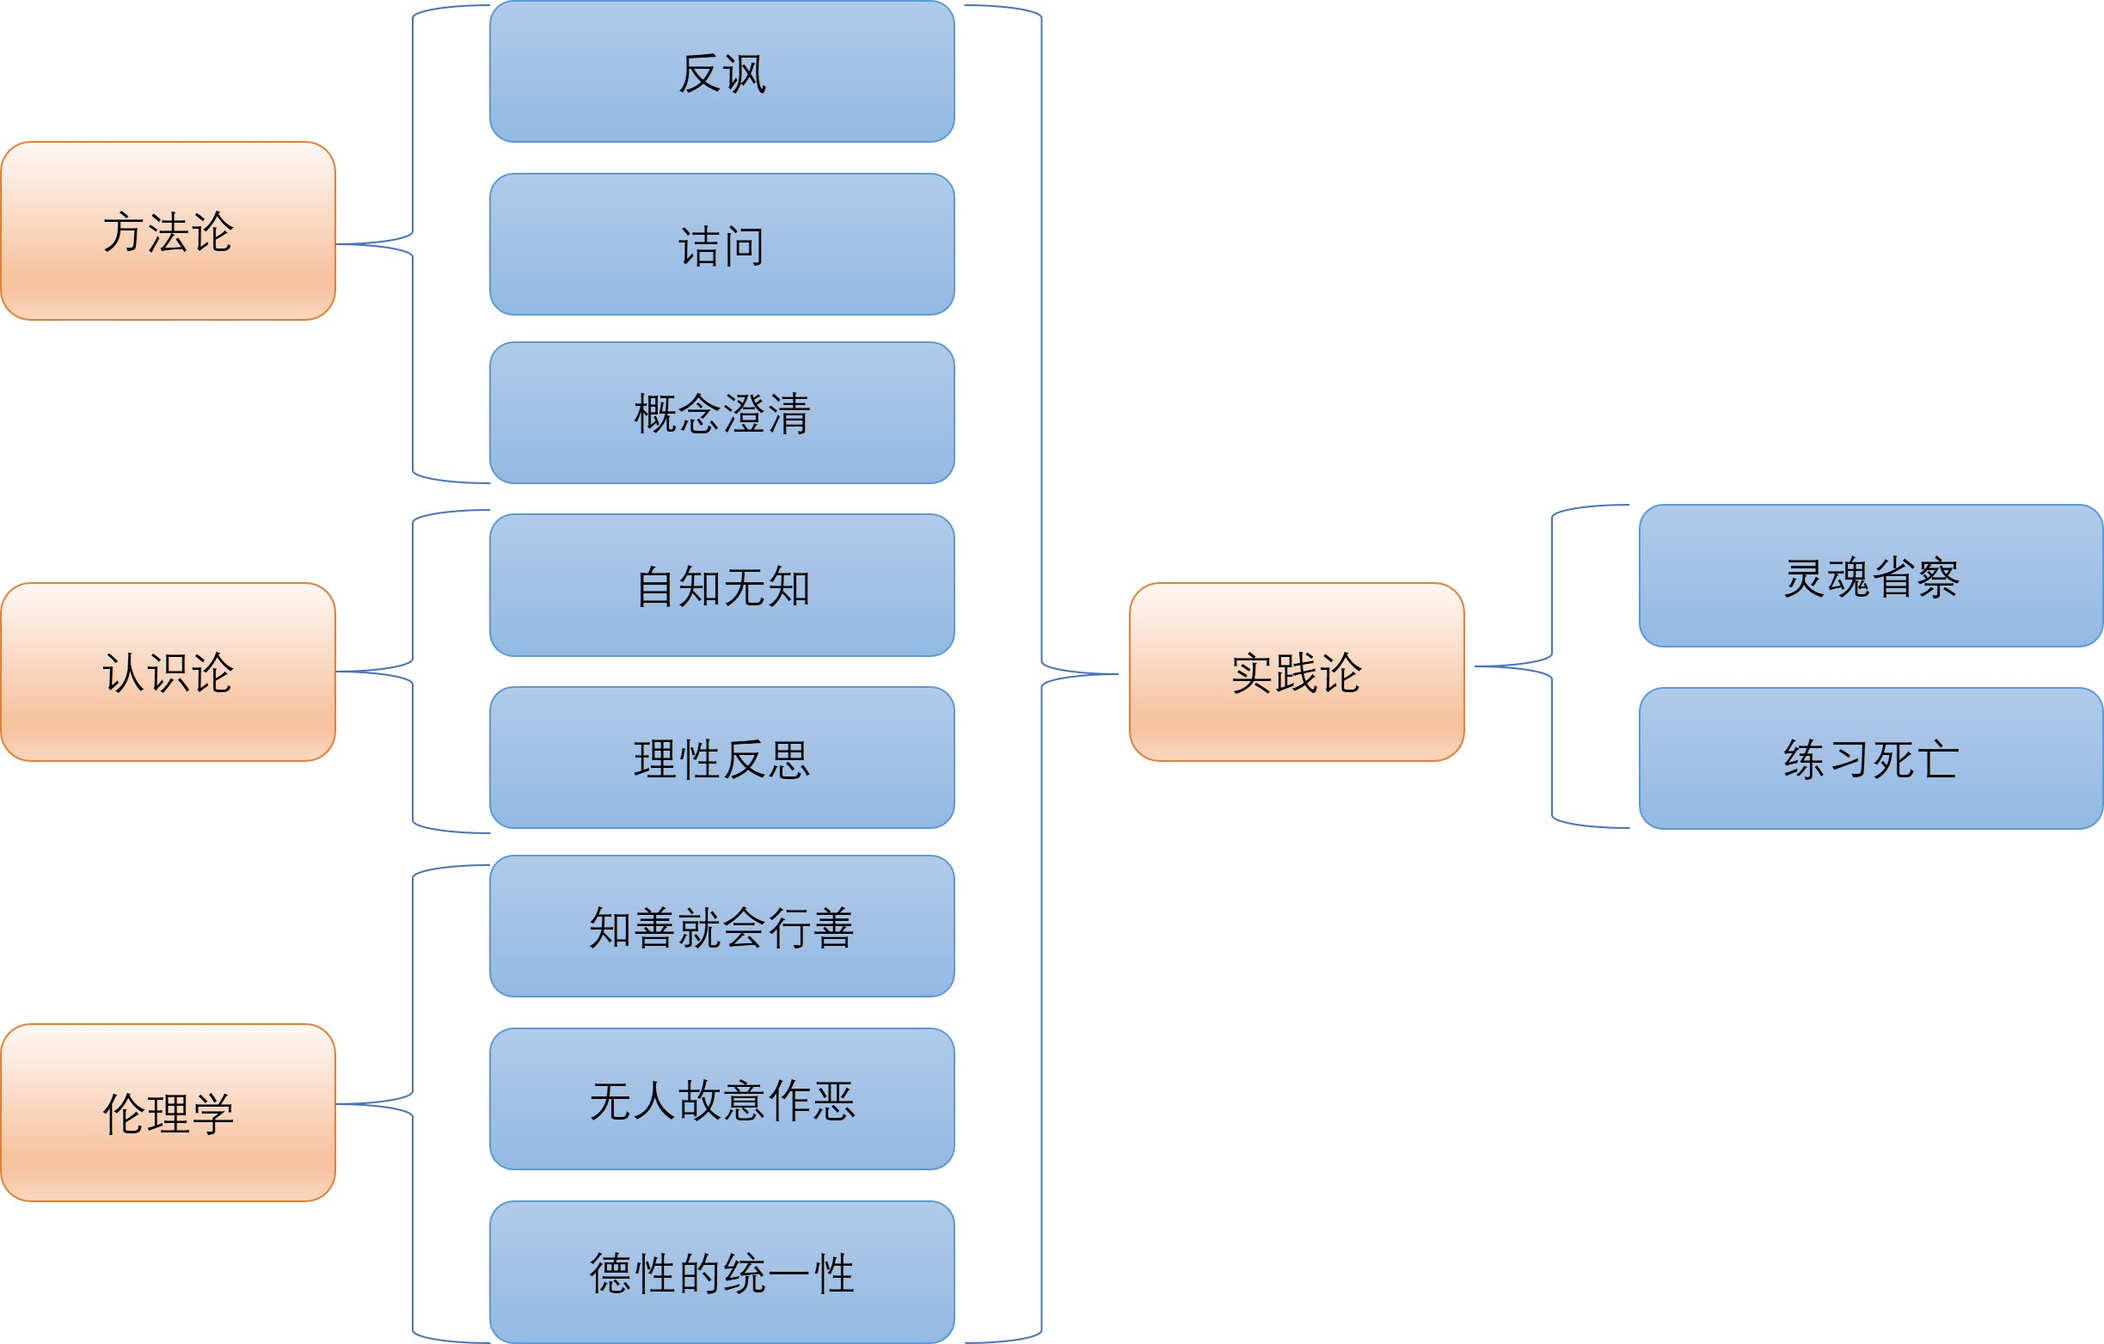
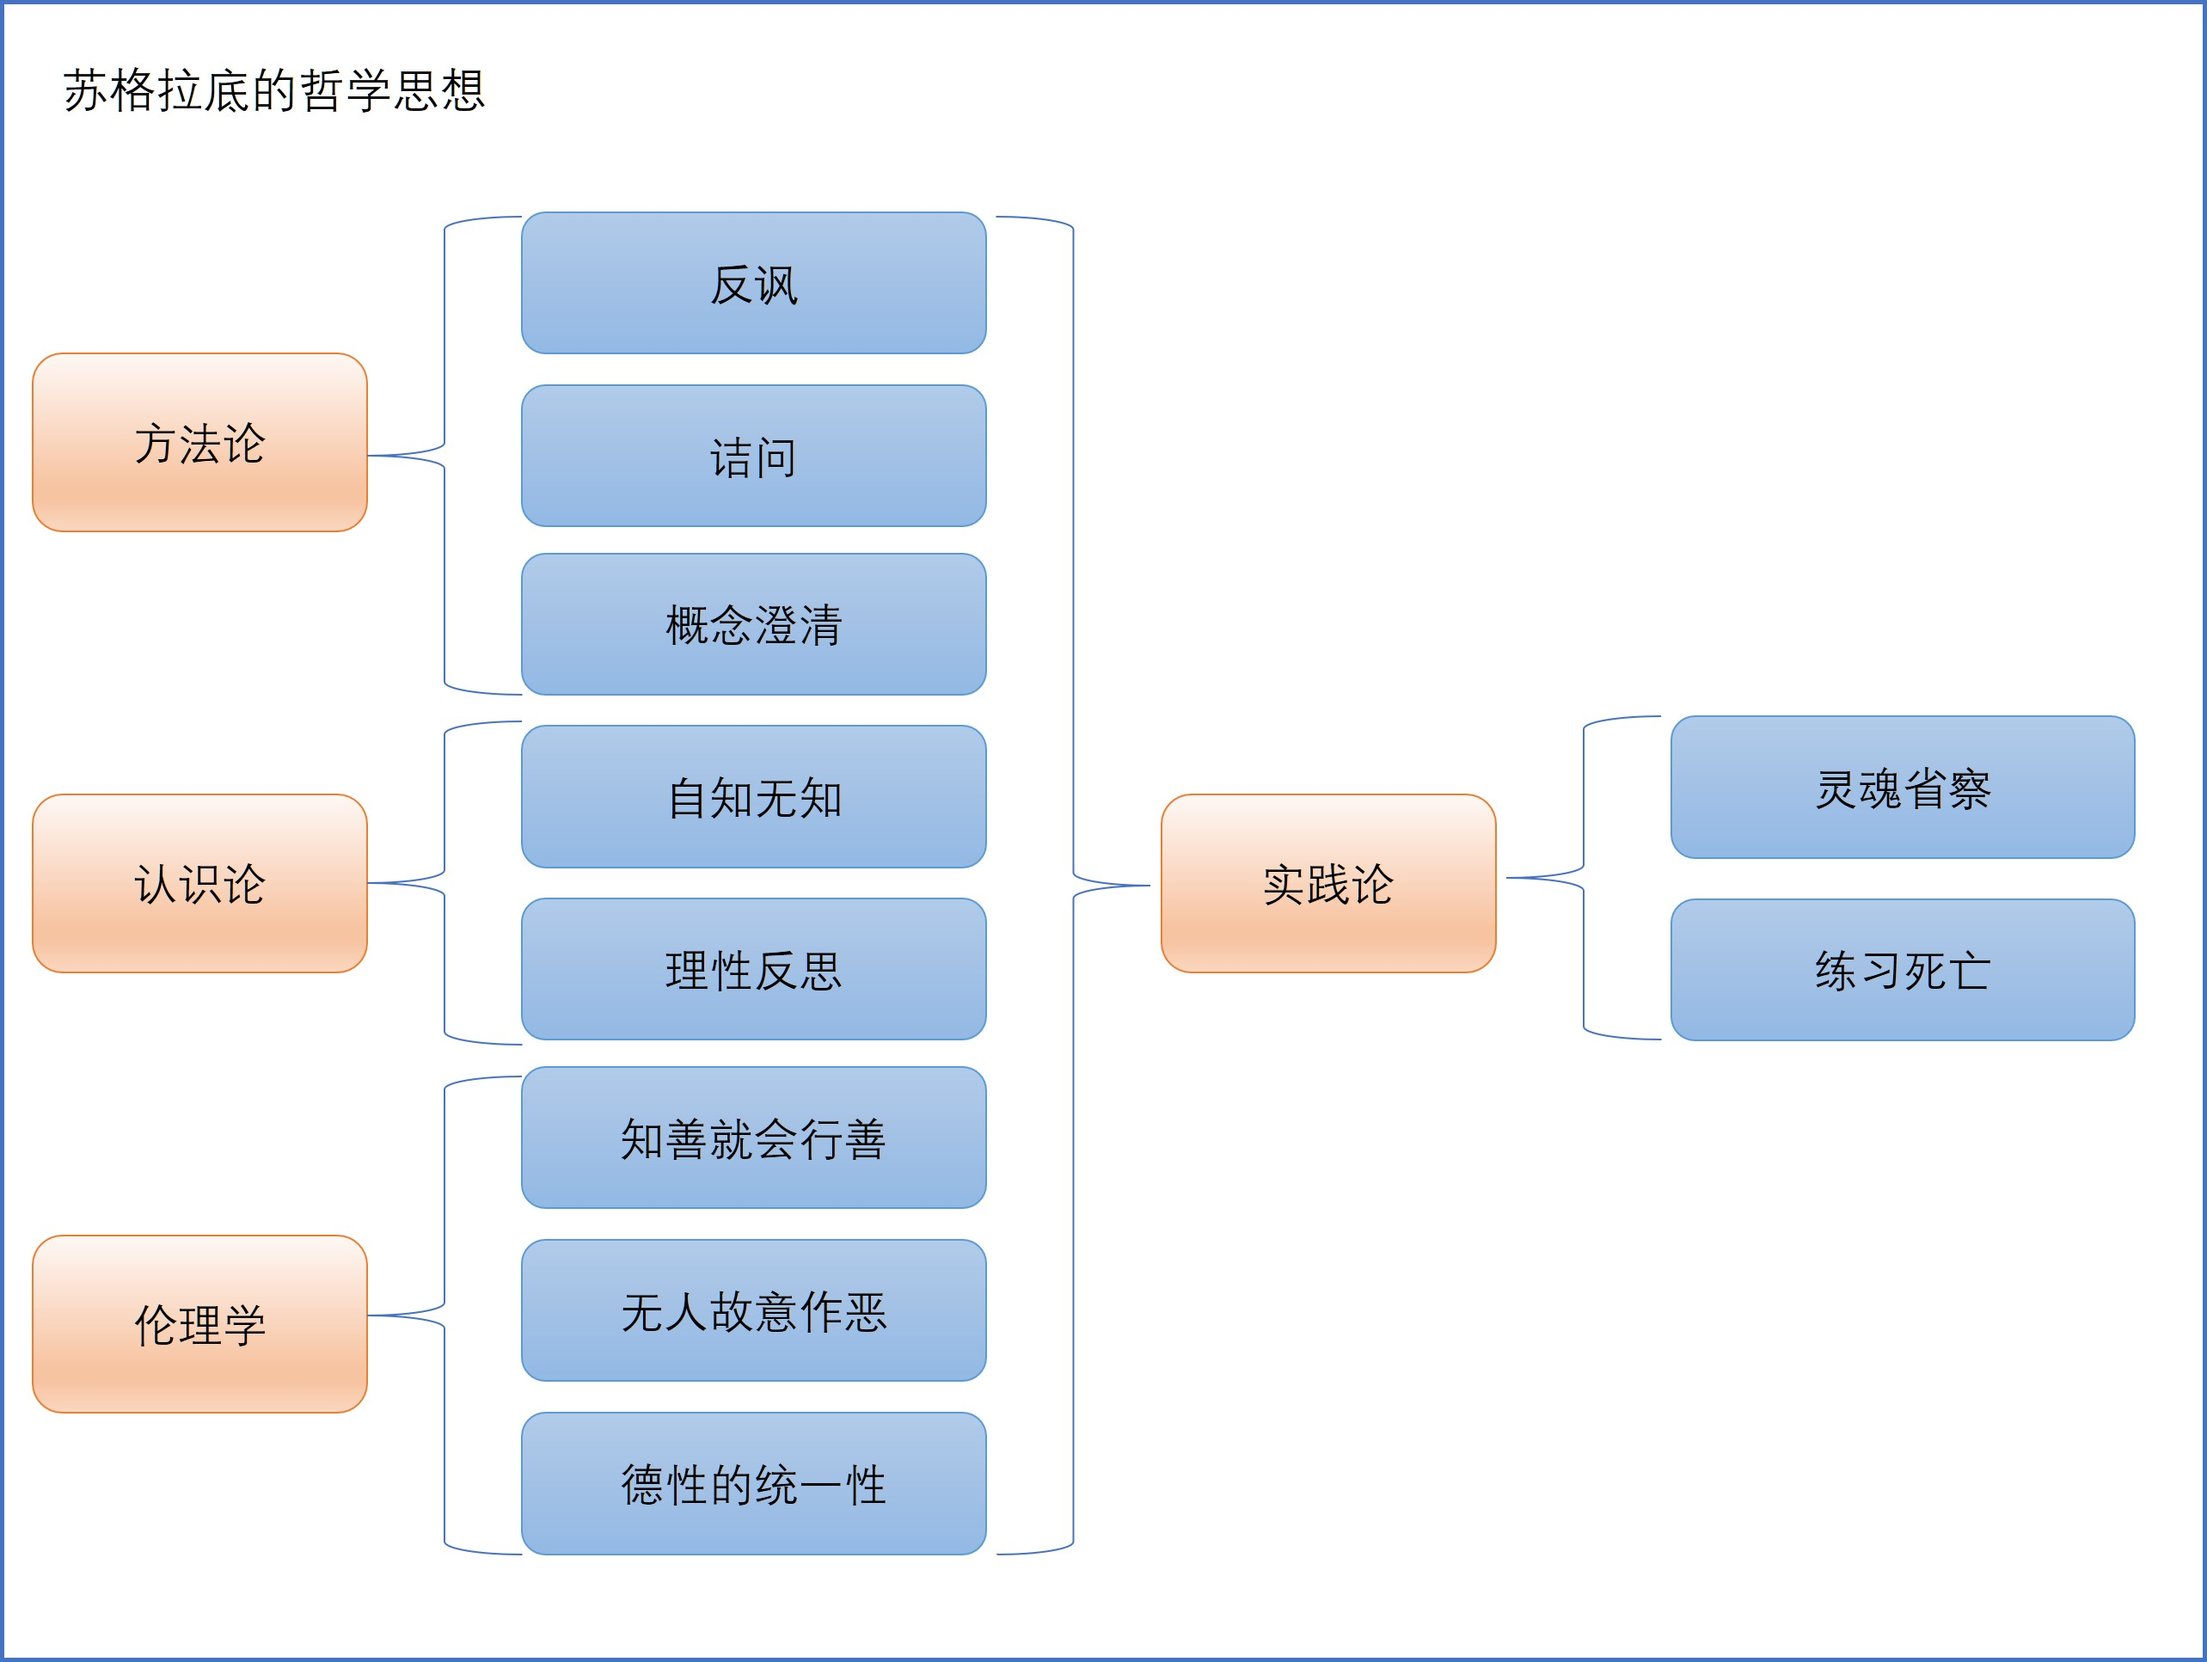
1

Changed region(s): [[0.0, 0.0, 1.0, 1.0], [0.0, 0.0921, 0.1864, 0.3378]]

diff --git a/docs/about/index.html b/docs/about/index.html
@@ -299,7 +299,7 @@ Text Analysis
 <h4 data-anchor-id="blog">Blog</h4>
 <div id="listing-blog" class="quarto-listing quarto-listing-container-grid">
 <div class="list grid quarto-listing-cols-1">
[2 lines of base64/hex data omitted]
 <a href="../blog/2025-10-01-西方哲学史/index.html" class="quarto-grid-link">
 <div class="quarto-grid-item card h-100 card-left">
 <p class="card-img-top">

diff --git a/docs/blog/index.html b/docs/blog/index.html
@@ -253,7 +253,7 @@ window.Quarto = {
     </div>
 </div>
 <div class="list quarto-listing-default">
[2 lines of base64/hex data omitted]
 <div class="thumbnail"><a href="../blog/2025-10-01-西方哲学史/index.html" class="no-external">
 
 <img loading="lazy" src="../blog/2025-10-01-西方哲学史/featured.jpg" class="thumbnail-image">

diff --git a/docs/blog/2025-10-01-西方哲学史/index.html b/docs/blog/2025-10-01-西方哲学史/index.html
@@ -625,7 +625,7 @@ ul.task-list li input[type="checkbox"] {
 <div class="quarto-figure quarto-figure-center">
 <figure class="figure">
 <p><img src="Chapter3.jpg" class="img-fluid figure-img"></p>
-<figcaption>章节小结</figcaption>
+<figcaption>第三章章节小结</figcaption>
 </figure>
 </div>
 </section>
